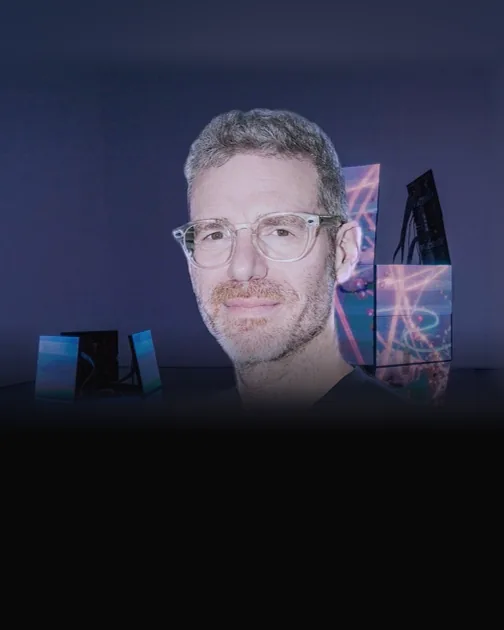
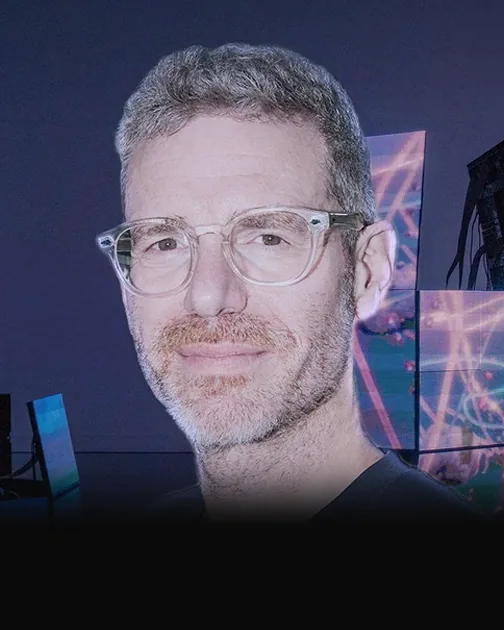
asmbly: recrop cover-based lineup portraits from real photo pixels
Sehun, Wilfred, Robleh, Amir and Geoffrey were framed with a blurred
background extension that showed as a box around a small head. Crop them
inside the clean photo area instead, at one shared head size and crown
position, with a short fade into the card at the bottom. Version the
image URLs so cached copies refresh.

Claude-Session: https://claude.ai/code/session_015vvedEEUJEY2Xconp5SVWz

diff --git a/public/asmbly/index.html b/public/asmbly/index.html
@@ -873,17 +873,17 @@ document.addEventListener('click', (e) => {
     </div>
     <div class="lineup">
       <article class="card card--revealed"><div class="card__img"><img decoding="async" src="/asmbly/img/sophie-hospes-s.webp" alt="Sophie Hospes" loading="lazy" /><div class="card__bio" aria-hidden="true"><span class="mono">About</span><p>Creative director based in Malmö. Through Studio Sophie Hospes and as Creative Director at New Limit Labs, she builds brand worlds across campaigns, product design and AI-powered creative systems.</p></div></div><div class="card__body"><div class="card__name">Sophie Hospes</div><div class="card__role mono">Speaker · The future of creative work</div><a class="card__ig mono" href="https://www.instagram.com/studiosophiehospes/" target="_blank" rel="noopener" aria-label="Sophie Hospes on Instagram">@studiosophiehospes ↗</a></div></article>
-      <article class="card card--revealed"><div class="card__img"><img decoding="async" src="/asmbly/img/sehun-choi-s.webp" alt="Sehun Choi" loading="lazy" /><div class="card__bio" aria-hidden="true"><span class="mono">About</span><p>Seoul-based artist working with generative AI across image, film and large-scale installation, with work for brands including OpenAI, Samsung and LG Electronics.</p></div></div><div class="card__body"><div class="card__name">Sehun Choi</div><div class="card__role mono">Speaker · Artist talk</div><a class="card__ig mono" href="https://www.instagram.com/se.hunchoi/" target="_blank" rel="noopener" aria-label="Sehun Choi: @se.hunchoi">@se.hunchoi ↗</a></div></article>
-      <article class="card card--revealed"><div class="card__img"><img decoding="async" src="/asmbly/img/wilfred-lee-s.webp" alt="Wilfred Lee" loading="lazy" /><div class="card__bio" aria-hidden="true"><span class="mono">About</span><p>Toronto AI filmmaker, worldbuilder and educator. Founder of Artist's Journey and GenTO, he brings storytelling, generative tools and community together into finished work.</p></div></div><div class="card__body"><div class="card__name">Wilfred Lee</div><div class="card__role mono">Panelist · The future of entertainment</div><a class="card__ig mono" href="https://www.instagram.com/theartistsjourney/" target="_blank" rel="noopener" aria-label="Wilfred Lee on Instagram">@theartistsjourney ↗</a></div></article>
+      <article class="card card--revealed"><div class="card__img"><img decoding="async" src="/asmbly/img/sehun-choi-s.webp?v=3" alt="Sehun Choi" loading="lazy" /><div class="card__bio" aria-hidden="true"><span class="mono">About</span><p>Seoul-based artist working with generative AI across image, film and large-scale installation, with work for brands including OpenAI, Samsung and LG Electronics.</p></div></div><div class="card__body"><div class="card__name">Sehun Choi</div><div class="card__role mono">Speaker · Artist talk</div><a class="card__ig mono" href="https://www.instagram.com/se.hunchoi/" target="_blank" rel="noopener" aria-label="Sehun Choi: @se.hunchoi">@se.hunchoi ↗</a></div></article>
+      <article class="card card--revealed"><div class="card__img"><img decoding="async" src="/asmbly/img/wilfred-lee-s.webp?v=3" alt="Wilfred Lee" loading="lazy" /><div class="card__bio" aria-hidden="true"><span class="mono">About</span><p>Toronto AI filmmaker, worldbuilder and educator. Founder of Artist's Journey and GenTO, he brings storytelling, generative tools and community together into finished work.</p></div></div><div class="card__body"><div class="card__name">Wilfred Lee</div><div class="card__role mono">Panelist · The future of entertainment</div><a class="card__ig mono" href="https://www.instagram.com/theartistsjourney/" target="_blank" rel="noopener" aria-label="Wilfred Lee on Instagram">@theartistsjourney ↗</a></div></article>
       <article class="card card--revealed"><div class="card__img"><img decoding="async" src="/asmbly/img/andrew-macdonald-s.webp" alt="Andrew MacDonald" loading="lazy" /><div class="card__bio" aria-hidden="true"><span class="mono">About</span><p>Filmmaker and creative-innovation leader at Cream Productions. As executive creative producer at Dark Half, he leads AI-enabled production and VFX workflows for film and television.</p></div></div><div class="card__body"><div class="card__name">Andrew MacDonald</div><div class="card__role mono">Panelist · Dark Half</div><a class="card__ig mono" href="https://darkhalf.ai/" target="_blank" rel="noopener" aria-label="Andrew MacDonald: darkhalf.ai">darkhalf.ai ↗</a></div></article>
-      <article class="card card--revealed"><div class="card__img"><img decoding="async" src="/asmbly/img/robleh-jama-s.webp" alt="Robleh Jama" loading="lazy" /><div class="card__bio" aria-hidden="true"><span class="mono">About</span><p>Toronto product builder and founder of Tomorrow. A Shopify alum, he co-founded Boom, the camera app for video calls, and founded the app studio Tiny Hearts.</p></div></div><div class="card__body"><div class="card__name">Robleh Jama</div><div class="card__role mono">Panelist · The Builder's Playbook</div><a class="card__ig mono" href="https://x.com/robjama" target="_blank" rel="noopener" aria-label="Robleh Jama: @robjama">@robjama ↗</a></div></article>
-      <article class="card card--revealed"><div class="card__img"><img decoding="async" src="/asmbly/img/amir-mxt-s.webp" alt="Amir MXT" loading="lazy" /><div class="card__bio" aria-hidden="true"><span class="mono">About</span><p>Founder of Humblytics, the simple analytics and A/B testing platform for websites. A product builder focused on shipping fast with small teams and new tools.</p></div></div><div class="card__body"><div class="card__name">Amir MXT</div><div class="card__role mono">Panelist · The Builder's Playbook</div><a class="card__ig mono" href="https://x.com/amirmxt" target="_blank" rel="noopener" aria-label="Amir MXT: @amirmxt">@amirmxt ↗</a></div></article>
+      <article class="card card--revealed"><div class="card__img"><img decoding="async" src="/asmbly/img/robleh-jama-s.webp?v=3" alt="Robleh Jama" loading="lazy" /><div class="card__bio" aria-hidden="true"><span class="mono">About</span><p>Toronto product builder and founder of Tomorrow. A Shopify alum, he co-founded Boom, the camera app for video calls, and founded the app studio Tiny Hearts.</p></div></div><div class="card__body"><div class="card__name">Robleh Jama</div><div class="card__role mono">Panelist · The Builder's Playbook</div><a class="card__ig mono" href="https://x.com/robjama" target="_blank" rel="noopener" aria-label="Robleh Jama: @robjama">@robjama ↗</a></div></article>
+      <article class="card card--revealed"><div class="card__img"><img decoding="async" src="/asmbly/img/amir-mxt-s.webp?v=3" alt="Amir MXT" loading="lazy" /><div class="card__bio" aria-hidden="true"><span class="mono">About</span><p>Founder of Humblytics, the simple analytics and A/B testing platform for websites. A product builder focused on shipping fast with small teams and new tools.</p></div></div><div class="card__body"><div class="card__name">Amir MXT</div><div class="card__role mono">Panelist · The Builder's Playbook</div><a class="card__ig mono" href="https://x.com/amirmxt" target="_blank" rel="noopener" aria-label="Amir MXT: @amirmxt">@amirmxt ↗</a></div></article>
       <article class="card card--revealed"><div class="card__img"><img decoding="async" src="/asmbly/img/ali-phi-s.webp" alt="Ali Phi" loading="lazy" /><div class="card__bio" aria-hidden="true"><span class="mono">About</span><p>Tehran-born, Toronto-based computer artist and creative technologist. His live audiovisual sets fuse generative visuals, sound and data, with performances at MUTEK Montréal.</p></div></div><div class="card__body"><div class="card__name">Ali Phi</div><div class="card__role mono">Closing AV performance</div><a class="card__ig mono" href="https://www.instagram.com/ali_phi/" target="_blank" rel="noopener" aria-label="Ali Phi on Instagram">@ali_phi ↗</a></div></article>
       <article class="card card--revealed"><div class="card__img"><img decoding="async" src="/asmbly/img/enna-kim-s.webp" alt="Enna Kim" loading="lazy" /><div class="card__bio" aria-hidden="true"><span class="mono">About</span><p>Korean-Canadian new media artist and VJ working with projection mapping, murals, interactive installation and live performance, from the AGO to MUTEK and Venus Fest.</p></div></div><div class="card__body"><div class="card__name">Enna Kim</div><div class="card__role mono">Exhibiting artist</div><a class="card__ig mono" href="https://www.instagram.com/fongkikid/" target="_blank" rel="noopener" aria-label="Enna Kim on Instagram">@fongkikid ↗</a></div></article>
       <article class="card card--revealed"><div class="card__img"><img decoding="async" src="/asmbly/img/pursuit-grooves-s.webp" alt="Pursuit Grooves" loading="lazy" /><div class="card__bio" aria-hidden="true"><span class="mono">About</span><p>Toronto producer, vocalist and visual artist Vanese Smith. 16+ albums and EPs on labels like Tectonic and Deepblak, MUTEK stages, and a 2025 Johanna Metcalf Prize finalist.</p></div></div><div class="card__body"><div class="card__name">Pursuit Grooves</div><div class="card__role mono">Opening performance</div><a class="card__ig mono" href="https://www.instagram.com/pursuitgrooves/" target="_blank" rel="noopener" aria-label="Pursuit Grooves: @pursuitgrooves">@pursuitgrooves ↗</a></div></article>
       <article class="card card--revealed"><div class="card__img"><img decoding="async" src="/asmbly/img/pfd-s.webp" alt="Pray First Diva" loading="lazy" /><div class="card__bio" aria-hidden="true"><span class="mono">About</span><p>Toronto digital artist working across visuals, technology and interaction, shown at Intel's Encore AI and InterAccess' flashDRIVE. At ASMBLY: a new interactive sculptural installation.</p></div></div><div class="card__body"><div class="card__name">Pray First Diva</div><div class="card__role mono">Exhibiting artist</div><a class="card__ig mono" href="https://www.instagram.com/prayfirstdiva/" target="_blank" rel="noopener" aria-label="Pray First Diva on Instagram">@prayfirstdiva ↗</a></div></article>
       <article class="card card--revealed"><div class="card__img"><img decoding="async" src="/asmbly/img/alex-mcleod-s.webp?v=2" alt="Alex McLeod" loading="lazy" /><div class="card__bio" aria-hidden="true"><span class="mono">About</span><p>Toronto artist building digital worlds and playable spaces. At ASMBLY he brings Miros Mirror, a playable installation you can step up to and try for yourself.</p></div></div><div class="card__body"><div class="card__name">Alex McLeod</div><div class="card__role mono">Exhibiting artist</div><a class="card__ig mono" href="https://www.instagram.com/alex_mcleod_/" target="_blank" rel="noopener" aria-label="Alex McLeod on Instagram">@alex_mcleod_ ↗</a></div></article>
-      <article class="card card--revealed"><div class="card__img"><img decoding="async" src="/asmbly/img/geoffrey-pugen-s.webp" alt="Geoffrey Pugen" loading="lazy" /><div class="card__bio" aria-hidden="true"><span class="mono">About</span><p>Toronto video artist whose screen sculptures fold LED screens into architectural forms. A K.M. Hunter Award recipient with work in the BMO and TD collections.</p></div></div><div class="card__body"><div class="card__name">Geoffrey Pugen</div><div class="card__role mono">Exhibiting artist</div><a class="card__ig mono" href="https://www.instagram.com/geoffreypugen/" target="_blank" rel="noopener" aria-label="Geoffrey Pugen on Instagram">@geoffreypugen ↗</a></div></article>
+      <article class="card card--revealed"><div class="card__img"><img decoding="async" src="/asmbly/img/geoffrey-pugen-s.webp?v=3" alt="Geoffrey Pugen" loading="lazy" /><div class="card__bio" aria-hidden="true"><span class="mono">About</span><p>Toronto video artist whose screen sculptures fold LED screens into architectural forms. A K.M. Hunter Award recipient with work in the BMO and TD collections.</p></div></div><div class="card__body"><div class="card__name">Geoffrey Pugen</div><div class="card__role mono">Exhibiting artist</div><a class="card__ig mono" href="https://www.instagram.com/geoffreypugen/" target="_blank" rel="noopener" aria-label="Geoffrey Pugen on Instagram">@geoffreypugen ↗</a></div></article>
       <article class="card card--revealed"><div class="card__img"><img decoding="async" src="/asmbly/img/robbot-s.webp" alt="ROBBOT" loading="lazy" /><div class="card__bio" aria-hidden="true"><span class="mono">About</span><p>Toronto artist Robert Rigo, making interactive installations and live visuals. At ASMBLY, ROBBOT brings an interactive artwork to the exhibition floor.</p></div></div><div class="card__body"><div class="card__name">ROBBOT</div><div class="card__role mono">Interactive installation</div><a class="card__ig mono" href="https://www.instagram.com/robbot.5000/" target="_blank" rel="noopener" aria-label="ROBBOT: @robbot.5000">@robbot.5000 ↗</a></div></article>
       <article class="card"><div class="card__img"><img decoding="async" src="/asmbly/img/dr-curtain-s.webp" alt="" loading="lazy" /><span class="card__q">?</span></div><div class="card__body"><div class="card__name" data-scramble="PANELIST">PANELIST</div><div class="card__role mono">The future of entertainment</div></div></article>
       <article class="card"><div class="card__img"><img decoding="async" src="/asmbly/img/art-flower-s.webp" alt="" loading="lazy" /><span class="card__q">?</span></div><div class="card__body"><div class="card__name" data-scramble="PANELIST">PANELIST</div><div class="card__role mono">The future of entertainment</div></div></article>
